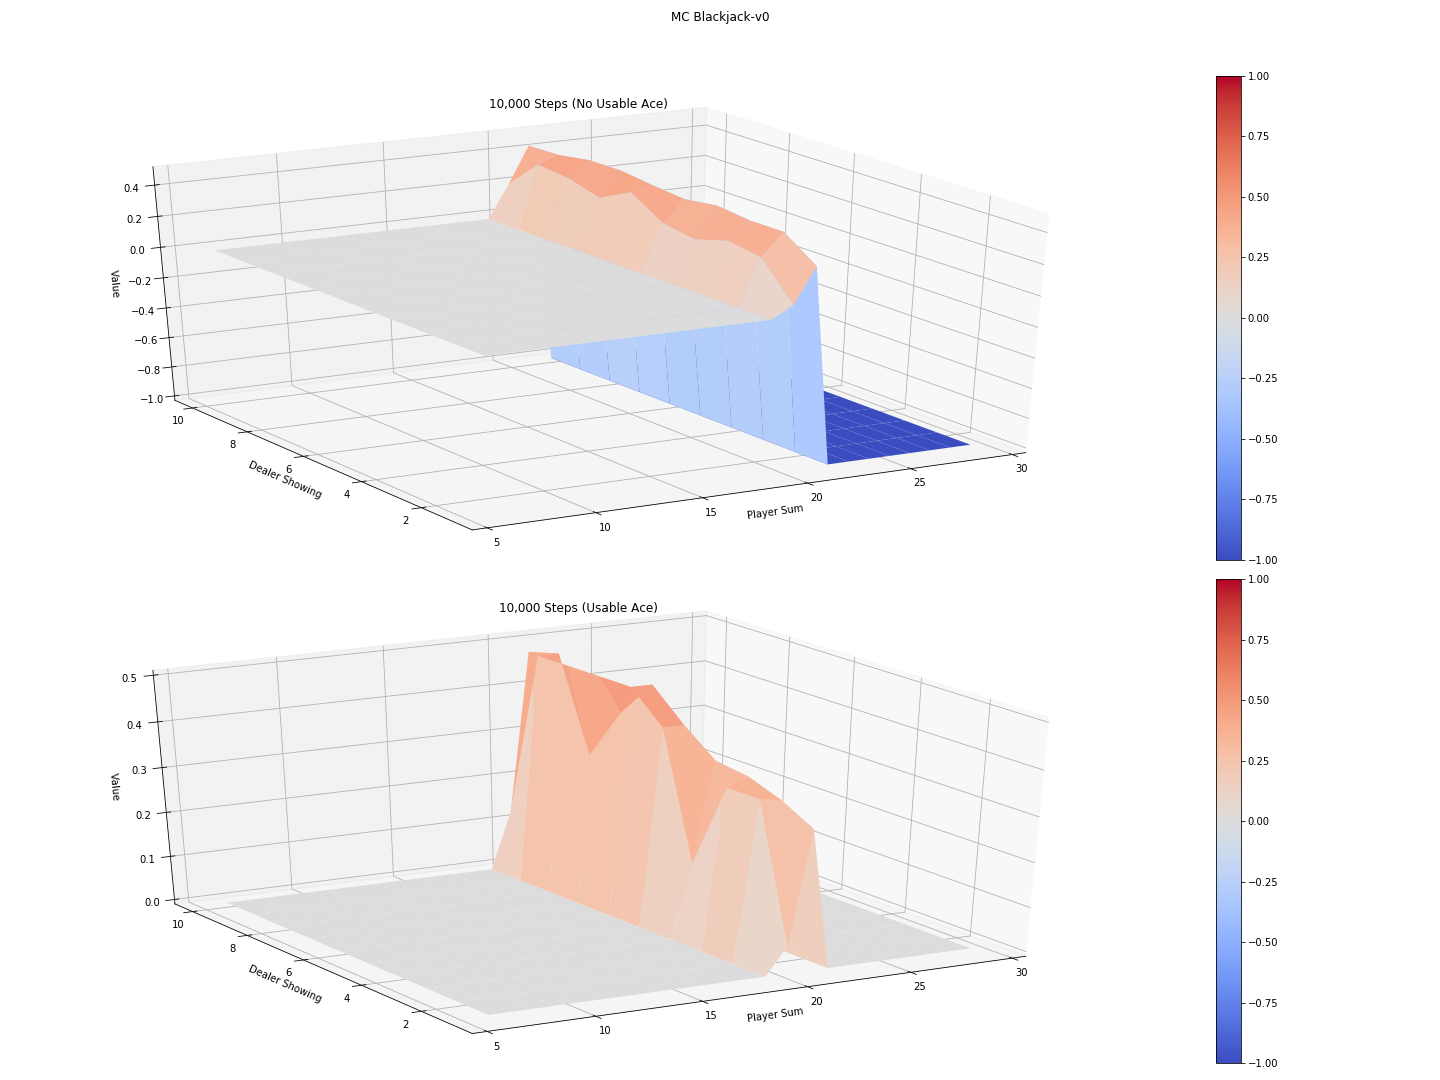
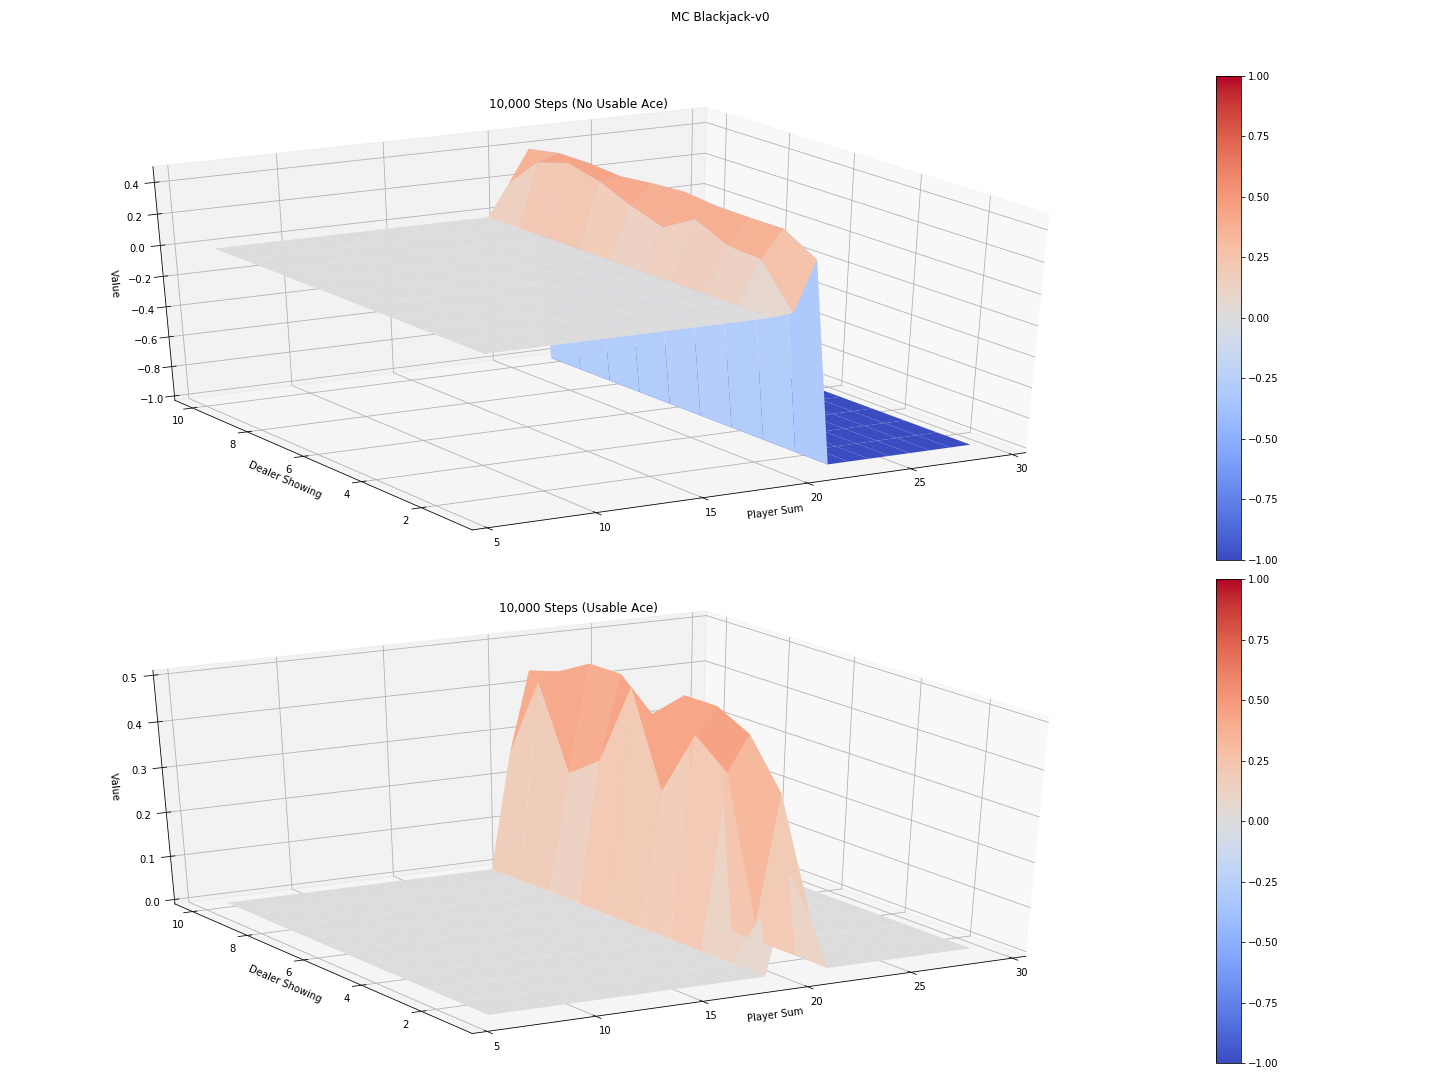
1.2 still working on it

diff --git a/Lab 6/Lab2 - Starter Code/lab_2.py b/Lab 6/Lab2 - Starter Code/lab_2.py
@@ -31,10 +31,6 @@ def blackjack_plot_value_function(V, title="Value Function", suptitle="MC Blackj
     max_x = max(k[0] for k in V.keys())
     min_y = min(k[1] for k in V.keys())
     max_y = max(k[1] for k in V.keys())
-    print(min_x)
-    print(max_x)
-    print(min_y)
-    print(max_y)
 
     x_range = np.arange(min_x, max_x + 1)
     y_range = np.arange(min_y, max_y + 1)
@@ -218,13 +214,13 @@ def mc_prediction(policy, env, num_episodes, discount_factor=1.0, max_steps_per_
                 temp_V = V[(next_observation)]
                 V[(next_observation)] = temp_V + 1/N[(next_observation)]*(G - temp_V)
                 
-                
             if done == True:
                 break;
                 
     
     # print(V)
-    # print(V[([0], [1], False)])   
+    # print(V[([0], [1], False)])  
+    
     return V
     
     
@@ -232,8 +228,9 @@ def mc_prediction(policy, env, num_episodes, discount_factor=1.0, max_steps_per_
 
 def argmax(numpy_array):
     """ argmax implementation that chooses randomly between ties """
-    raise NotImplementedError
-
+    # max_val = max(Q[observation][k] for k in Q[observation])
+    # a = 
+    return np.argmax(np.random.random(numpy_array.shape) * (numpy_array==numpy_array.max()), axis=None)
 
 def make_epsilon_greedy_policy(Q, epsilon, nA):
     """
@@ -250,8 +247,20 @@ def make_epsilon_greedy_policy(Q, epsilon, nA):
         the probabilities for each action in the form of a numpy array of length nA.
 
     """
+    
+    def policy_fn(observation):
+        prob = []
+        actions = np.array([ k for k in Q[observation] ])
+        numAct = actions.shape[0]
+        A = argmax(actions)
+        for a in actions:
+            if a == A:
+                prob.append(1-epsilon+epsilon/numAct)
+            else:
+                prob.append(epsilon/numAct)
+                
+        return prob
 
-    raise NotImplementedError
     return policy_fn
 
 
@@ -273,6 +282,53 @@ def mc_control_epsilon_greedy(env, num_episodes, discount_factor=1.0, epsilon=0.
         policy is a function that takes an observation as an argument and returns
         action probabilities
     """
+    
+    # def policy(observation):
+    #     numAct = env.action_space.n
+    #     prob = np.zeros(numAct)
+    #     for _ in range(0,numAct)
+    #         prob.append(epsilon/numAct)
+    
+    #     return prob
+    
+    # N = defaultdict(float)
+    # Returns = defaultdict(float)
+    # Q = defaultdict(float)
+    
+    # for ep in range(0,num_episodes):
+    #     print('ep: ' , ep)
+    #     next_observation = env.reset()
+    #     G = 0
+        
+    #     seen = {}
+    #     while True:
+    #         action = policy(next_observation)
+    #         seen = {(next_observation),action : 1}
+    #         next_observation, reward, done, _ = env.step(action)
+    #         G = discount_factor*G + reward
+    #         if (next_observation), not in seen:
+    #             Returns[(next_observation)] = G
+    #             if (next_observation) not in N:                   
+    #                 N[(next_observation)] = 1#np.random.normal(0,1,1)
+    #             else:
+    #                 N[(next_observation)] += 1
+                    
+    #             if (next_observation) not in  V:
+    #                 Q[(next_observation)] = 0
+                
+                    
+    #             temp_Q = Q[(next_observation)]
+    #             Q[(next_observation)] = temp_Q + 1/N[(next_observation)]*(G - temp_Q)
+                
+                
+    #         if done == True:
+    #             break;
+                
+    
+    # # print(V)
+    # # print(V[([0], [1], False)])   
+    # return Q
+    
     raise NotImplementedError
 
 
